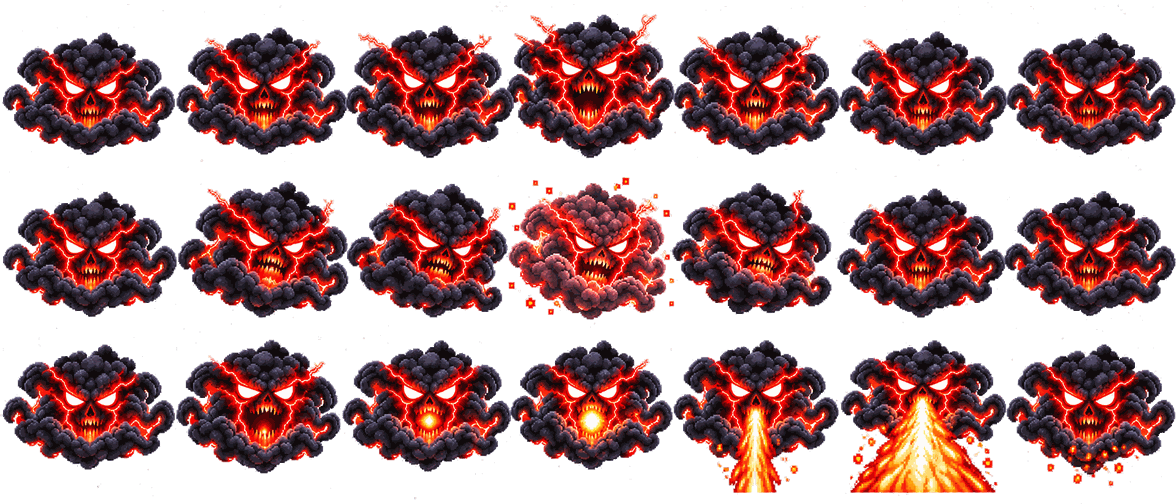
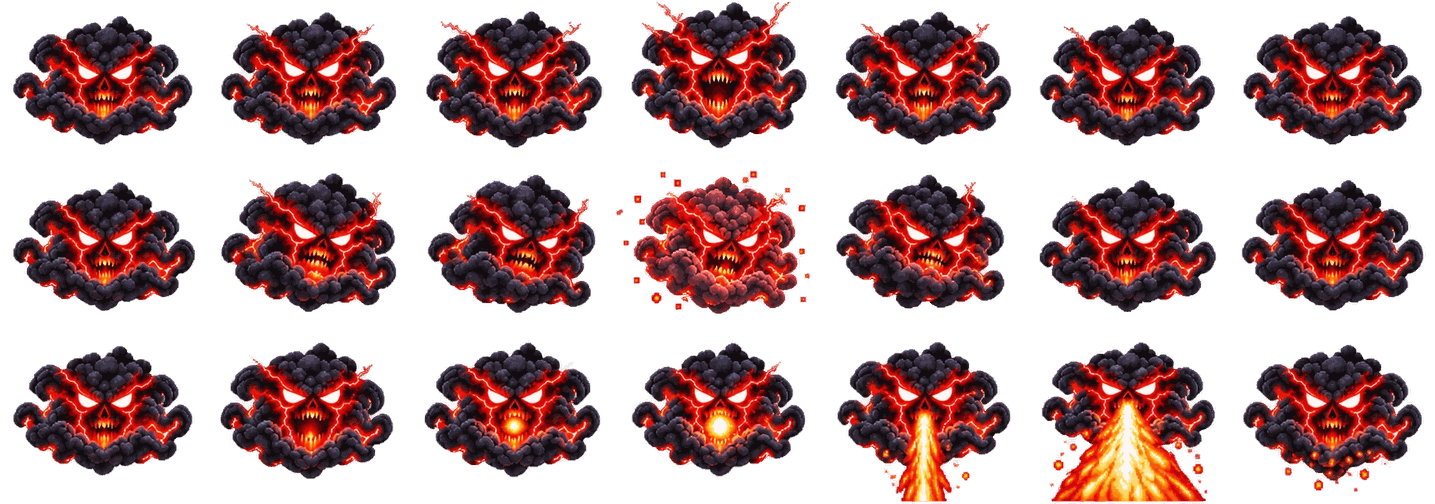
Rebuild the boss from the new art, on a grid it can actually animate on
The replacement sheet has the same 7×3 shape, but the 21 figures on it are not
on an even grid: each one is a different width, some throw lightning out to one
side, two breathe fire straight down. Cutting at width/7 clips the lightning off
one frame and leaves it hanging in the next cell, and the face drifts between
frames because its own bounding box keeps changing shape around it.

tools/build-boss-sheet.py finds the real grid instead, from the smoke head — the
solid dark mass, the one thing present in all 21 frames that stays put while the
lightning and the fire come and go. It reads the head centres, measures how far
the widest frame reaches from there, and lays every frame into a cell that holds
the head in the same spot. The cell is cut tight at the floor, because the floor
is where the boss stands (pivot.y = 1), and padded symmetrically across so the
head sits on the pivot.

That lands on 205×168 cells instead of 168×168 — the new art is wider than it is
tall. Everything that draws the boss already scales by headroom and clamps by
width, so the projector, the phone portrait and the summoning film all take it
without changes; only SPRITES.boss.size moves, and the script prints the number
to put there. Headroom still fills the cell exactly, so the boss renders at the
same size and sharpness as before.

One thing to know: the raw art is kept as boss-smoke-raw.webp and the sheet is
derived from it, so the next replacement is a file copy and one command rather
[…]

diff --git a/src/config.js b/src/config.js
@@ -2,11 +2,12 @@
 // views = frame order of a 360° turnaround strip.
 export const SPRITES = {
   hero: { url: 'assets/source/hero-360.svg', views: ['down-right', 'right', 'up-right', 'up', 'up-left', 'left', 'down-left'] },
-  // 7×3 grid PNG (168px cells, drawn 1:1): row 1 idle, row 2 taking a hit, row 3 breathing fire.
-  // Cleaned from a generated sheet whose "transparent" background was a painted checkerboard.
+  // 7×3 grid PNG (205×168 cells, drawn 1:1): row 1 idle, row 2 taking a hit, row 3 breathing fire.
+  // Built from assets/source/boss-smoke-raw.webp by tools/build-boss-sheet.py, which puts the
+  // smoke head at the same spot in every cell — the raw art is not on an even grid.
   boss: {
     url: 'assets/source/boss-smoke.png',
-    cols: 7, rows: 3, size: 168,
+    cols: 7, rows: 3, size: 205,
     pivot: { x: 0.5, y: 1 },
     anims: {
       idle: { frames: [0, 1, 2, 3, 4, 5, 6], fps: 8 },

diff --git a/tools/build-boss-sheet.py b/tools/build-boss-sheet.py
@@ -1,0 +1,132 @@
+# -*- coding: utf-8 -*-
+"""Dung assets/source/boss-smoke.png tu ban ve goc boss-smoke-raw.webp.
+
+Chay: python tools/build-boss-sheet.py
+
+Anh goc do may sinh ra: 21 hinh xep 7x3 nhung khong nam tren mot luoi chinh xac, va moi
+hinh mot be ngang khac nhau (co frame co set sang mot ben, co frame phun lua xuong duoi).
+Cat thang theo width/7 la xen mat set cua frame nay va dinh sang o ben canh.
+
+Nen script do lay luoi that tu "dau khoi" — khoi mau toi dac, thu duy nhat co mat o ca 21
+frame va khong doi cho khi set hay lua bung ra. Tim tam dau khoi cua tung frame, dung mot o
+chung du rong cho frame ngoai co nhat, roi dat tung frame vao o sao cho dau khoi nam dung mot
+cho. Nho vay loadGridSheet cat ra 21 frame khop nhau, boss khong giat khi doi frame.
+
+Ra: sheet 7x3, o 206x168, giam con 256 mau nhu cac sheet khac (xem tools/optimize-assets.py).
+"""
+import os
+import sys
+
+from PIL import Image
+import numpy as np
+
+ROOT = os.path.dirname(os.path.dirname(os.path.abspath(__file__)))
+RAW = os.path.join(ROOT, 'assets', 'source', 'boss-smoke-raw.webp')
+OUT = os.path.join(ROOT, 'assets', 'source', 'boss-smoke.png')
+
+COLS, ROWS = 7, 3
+# Chieu cao o sau khi thu nho. Boss ve tren san 1920x1080 cao 200 px, giu o 168 nhu sheet cu
+# la ti le phong to y het truoc, khong doi do net.
+CELL_H = 168
+# Bui alpha rat mo rai khap anh: tinh vao thi o phai nong them ~40 px moi ben, boss be di
+# ma khong them gi nhin thay duoc.
+DUST = 8
+
+
+def bands(mask, minlen):
+    """Cac doan lien tiep True dai it nhat minlen."""
+    out, start = [], None
+    for i, on in enumerate(mask):
+        if on and start is None:
+            start = i
+        elif not on and start is not None:
+            if i - start >= minlen:
+                out.append((start, i - 1))
+            start = None
+    if start is not None and len(mask) - start >= minlen:
+        out.append((start, len(mask) - 1))
+    return out
+
+
+def head_grid(arr):
+    """Tam dau khoi cua 21 frame: (danh sach x theo cot, danh sach y theo hang)."""
+    r, g, b, a = (arr[..., i].astype(int) for i in range(4))
+    dark = (a > 160) & (r < 95) & (g < 95) & (b < 115)
+    rb = bands(dark.any(axis=1), 40)
+    if len(rb) != ROWS:
+        sys.exit(f'Tim thay {len(rb)} hang dau khoi, can {ROWS}. Ban ve goc doi layout roi?')
+    ys, xs_per_row = [], []
+    for top, bottom in rb:
+        ys.append((top + bottom) / 2)
+        cb = bands(dark[top:bottom + 1].any(axis=0), 40)
+        if len(cb) != COLS:
+            sys.exit(f'Hang {top}-{bottom} co {len(cb)} cot, can {COLS}.')
+        xs_per_row.append([(l + r2) / 2 for l, r2 in cb])
+    # Trung binh theo cot: tung frame lech vai pixel la chuyen dong cua chinh no, giu nguyen.
+    xs = [sum(row[c] for row in xs_per_row) / ROWS for c in range(COLS)]
+    return xs, ys
+
+
+def frame_padding(arr, xs, ys):
+    """Cho vua frame ngoai co nhat: bao xa tam dau khoi thi con net ve.
+
+    Ngang lay doi xung de dau khoi dung giua o (pivot x = 0.5). Duoi cat sat vi day o chinh la
+    cho boss "dung" khi ve (pivot y = 1) — chua trong o duoi la boss treo lo lung len cao.
+    """
+    opaque = arr[..., 3] > 0
+    H, W = opaque.shape
+    xcut = [0] + [int((xs[i] + xs[i + 1]) / 2) for i in range(COLS - 1)] + [W]
+    ycut = [0] + [int((ys[i] + ys[i + 1]) / 2) for i in range(ROWS - 1)] + [H]
+    left = right = top = bottom = 0
+    for r in range(ROWS):
+        for c in range(COLS):
+            sub = opaque[ycut[r]:ycut[r + 1], xcut[c]:xcut[c + 1]]
+            yy, xx = np.nonzero(sub)
+            if not len(xx):
+                continue
+            left = max(left, round(xs[c]) - (xx.min() + xcut[c]))
+            right = max(right, (xx.max() + xcut[c]) - round(xs[c]))
+            top = max(top, round(ys[r]) - (yy.min() + ycut[r]))
+            bottom = max(bottom, (yy.max() + ycut[r]) - round(ys[r]))
+    return max(left, right) + 1, top + 1, bottom + 1
+
+
+def main():
+    if not os.path.exists(RAW):
+        sys.exit(f'Khong co {RAW}')
+    src = Image.open(RAW).convert('RGBA')
+    arr = np.array(src)
+    arr[..., 3] = np.where(arr[..., 3] > DUST, arr[..., 3], 0)
+    src = Image.fromarray(arr)
+    xs, ys = head_grid(arr)
+    print(f'Luoi dau khoi: x={[round(x) for x in xs]} y={[round(y) for y in ys]}')
+
+    pad_x, pad_top, pad_bottom = frame_padding(arr, xs, ys)
+    print(f'O can: ngang +-{pad_x}, tren {pad_top}, duoi {pad_bottom}')
+    cw, ch = pad_x * 2, pad_top + pad_bottom
+    sheet = Image.new('RGBA', (COLS * cw, ROWS * ch), (0, 0, 0, 0))
+    for r in range(ROWS):
+        for c in range(COLS):
+            box = (round(xs[c]) - pad_x, round(ys[r]) - pad_top)
+            sheet.paste(src.crop((box[0], box[1], box[0] + cw, box[1] + ch)), (c * cw, r * ch))
+
+    # Day o cham net ve la dung y: day o chinh la cho boss dung. Cham ba mep kia moi la bi xen.
+    for r in range(ROWS):
+        for c in range(COLS):
+            cell = sheet.crop((c * cw, r * ch, (c + 1) * cw, (r + 1) * ch))
+            bb = cell.getchannel('A').getbbox()
+            if bb and (bb[0] == 0 or bb[1] == 0 or bb[2] == cw):
+                print(f'  CANH BAO: frame {r * COLS + c} bi xen {bb}')
+
+    # O phai chia het be ngang sheet: loadGridSheet lay cellW = width/cols, lech nua pixel la
+    # no resample lai ca sheet mot lan nua cho khong can.
+    cell_w = round(cw * CELL_H / ch)
+    final = sheet.resize((COLS * cell_w, ROWS * CELL_H), Image.LANCZOS)
+    final.quantize(colors=256, method=Image.FASTOCTREE).save(OUT, optimize=True)
+    print(f'{os.path.relpath(OUT, ROOT)}: {final.width}x{final.height}, '
+          f'o {final.width // COLS}x{CELL_H}, {os.path.getsize(OUT) / 1024:.0f} KB')
+    print(f'  -> dat size: {final.width // COLS} cho SPRITES.boss trong src/config.js')
+
+
+if __name__ == '__main__':
+    main()

diff --git a/ASSETS.md b/ASSETS.md
@@ -6,8 +6,7 @@
 |---|---|---|
 | Nhân vật chính | `assets/source/hero-360.svg` | 7 hướng nhìn, frame 64×64 |
 | Logo lockup | `assets/source/learning-hub-x-research-lab.png` | Hiện trên thẻ vào phòng. Chữ đã đảo sang trắng để đọc được trên nền tối; con cáo, chữ "Learning" cam và vòng tròn xanh giữ nguyên màu gốc |
-| Boss | `assets/source/boss-smoke.png` | Sheet 7×3, frame 168×168: hàng 1 `idle` (8 fps), hàng 2 `hurt` (14 fps, chạy 1 lần), hàng 3 `attack` (12 fps, chạy 1 lần) |
-
+| Boss | `assets/source/boss-smoke.png` | Sheet 7×3, frame 205×168: hàng 1 `idle` (8 fps), hàng 2 `hurt` (14 fps, chạy 1 lần), hàng 3 `attack` (12 fps, chạy 1 lần). Dựng từ `boss-smoke-raw.webp`, xem [Thay sprite boss](#thay-sprite-boss) |
 | Vật phẩm | `assets/source/items/*.png` | 128×128, hiện ở thanh vật phẩm và trong clip hướng dẫn |
 | Icon thả chơi | `assets/source/reactions/*.png` | 192×192, 5 con cáo người chơi thả cho nhau xem lúc chờ |
 
@@ -26,8 +25,25 @@ python tools/optimize-assets.py
 File gốc nằm trong `assets/source/**/raw/` và không được deploy tới điện thoại; script đọc từ đó
 ghi đè bản đã ép. Đừng sửa tay bản đã ép — lần chạy script sau sẽ đè mất.
 
+## Thay sprite boss
+
 Boss dùng sheet PNG dạng lưới (`loadGridSheet`) như ụ súng: nền trong suốt, mỗi hàng là một animation.
 Nếu file gốc có nền checkerboard vẽ chết, phải tách nền (flood fill từ viền) trước khi đưa vào `assets/source/`.
+
+Bản vẽ boss do máy sinh ra **không nằm trên lưới chính xác**: 21 hình xếp 7×3 nhưng mỗi hình một
+bề ngang, frame thì sét toả sang một bên, frame thì phun lửa xuống dưới. Cắt thẳng theo
+`width / 7` là xén mất sét của frame này và dính sang ô bên cạnh. Nên:
+
+1. Chép bản vẽ gốc (giữ nguyên, đừng sửa) vào `assets/source/boss-smoke-raw.webp`.
+2. `python tools/build-boss-sheet.py`
+
+Script dò lưới thật từ **đầu khói** — khối màu tối đặc, thứ duy nhất có mặt ở cả 21 frame và
+không đổi chỗ khi sét hay lửa bùng ra — rồi đặt từng frame vào ô sao cho đầu khói nằm đúng một
+chỗ, cắt sát đáy (đáy ô là chỗ boss "đứng", `pivot.y = 1`). Nó in ra bề rộng ô; **chép con số
+đó vào `size` của `SPRITES.boss` trong [src/config.js](src/config.js)**, vì bản vẽ mới có thể
+rộng hẹp khác bản cũ. Frame nào bị xén script cũng báo.
+
+Layout khác 7×3 thì sửa `COLS`/`ROWS` trong script lẫn `cols`/`rows` trong config.
 
 Hero vẫn đọc từ SVG khi mở: lấy ảnh bitmap nhúng bên trong, dùng lớp mask làm nền trong suốt,
 tự phát hiện ảnh pixel bị phóng to bao nhiêu lần (hiện là ×3) rồi thu về đúng 1 pixel art = 1 pixel game.
